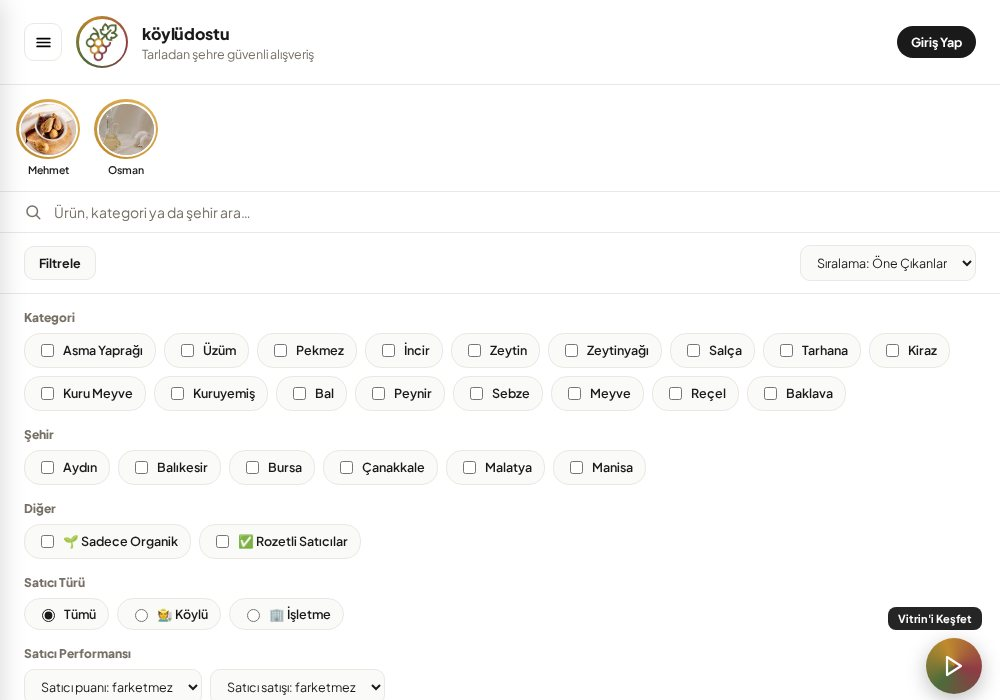
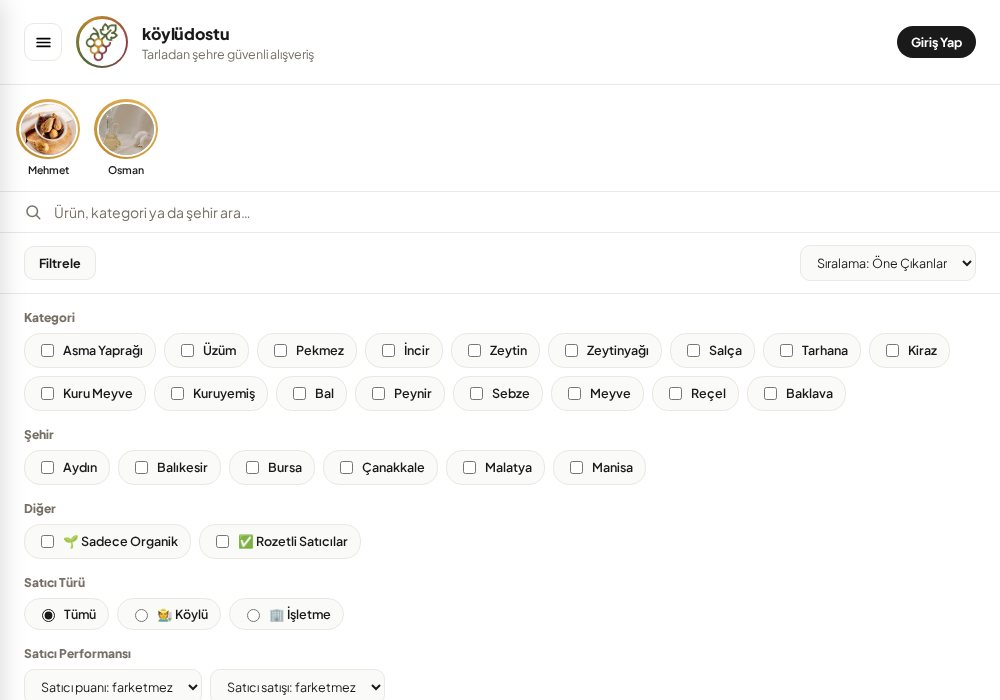
Açılış sayfasını yeni arayüze ve ana uygulama temasına güncelle
- Tema kırmızı/beyazdan ana uygulamanın yeşil marka renklerine (--ring1) döndürüldü
- "Şu an geliştiriyoruz" gibi gereksiz bilgilendirme ifadeleri kaldırıldı
- Yeni özellik kartı: "Doğru Nakliye, Her Seferinde" — saklama koşulu sistemine dayalı nakliye avantajı slogan olarak eklendi (features-grid 2x2 düzene alındı)
- Vitrin ekran görüntüleri (anasayfa, ürün, filtre) güncel arayüzü (keşif şeritleri, yeni kalp ikonu) yansıtacak şekilde yenilendi

Changed region(s): [[0.868, 0.87, 0.992, 1.0]]

diff --git a/koyludostu-tumsite/landing/index.html b/koyludostu-tumsite/landing/index.html
@@ -11,14 +11,15 @@
 <link href="https://fonts.googleapis.com/css2?family=Plus+Jakarta+Sans:wght@400;500;600;700;800;900&display=swap" rel="stylesheet">
 <style>
   :root{
-    --ink:#1A1210; --cream:#FFFBF7; --paper:#FFFFFF;
-    --red:#E30A17; --red-dark:#A10D1C; --red-soft:#FDE6E4;
-    --muted:#7A716B; --line:#F0E3DF;
+    /* Ana uygulamayla (assets/style.css) birebir aynı marka renkleri. */
+    --ink:#1A1A1A; --bg:#FAFAF9; --card:#FFFFFF; --muted:#767066; --line:#ECE8E1;
+    --ring1:#4E6B3A; --ring1-dark:#3A5129; --ring1-soft:#E8EFE3;
+    --ring2:#C08A2E; --ring3:#8E3B46;
   }
   *,*::before,*::after{box-sizing:border-box;}
   html{scroll-behavior:smooth;}
   body{
-    margin:0; background:var(--cream); color:var(--ink); font-family:'Plus Jakarta Sans',sans-serif;
+    margin:0; background:var(--bg); color:var(--ink); font-family:'Plus Jakarta Sans',sans-serif;
     -webkit-font-smoothing:antialiased; overflow-x:hidden;
   }
   a{color:inherit;}
@@ -32,7 +33,7 @@
   .brand{display:flex;align-items:center;gap:11px;}
   .logo-ring{
     width:42px;height:42px;border-radius:50%;flex-shrink:0;padding:2px;
-    background:conic-gradient(from 220deg,var(--red),var(--ink),var(--red-dark),var(--red));
+    background:conic-gradient(from 220deg,var(--ring1),var(--ink),var(--ring1-dark),var(--ring1));
   }
   .logo-ring div{width:100%;height:100%;border-radius:50%;background:#fff;display:flex;align-items:center;justify-content:center;overflow:hidden;}
   .logo-ring img{width:92%;height:92%;object-fit:contain;}
@@ -42,12 +43,12 @@
     padding:10px 18px;border-radius:100px;font-size:13px;font-weight:700;text-decoration:none;white-space:nowrap;
     border:none;cursor:pointer;font-family:inherit;
   }
-  .header-cta:hover{background:var(--red-dark);}
+  .header-cta:hover{background:var(--ring1-dark);}
 
   /* ================= HERO (renkli blok) ================= */
   .hero{
     position:relative;overflow:hidden;
-    background:var(--red);color:#fff;
+    background:var(--ring1);color:#fff;
     margin:24px 16px 0;border-radius:32px;
     padding:clamp(40px,8vw,72px) clamp(20px,6vw,56px) clamp(48px,9vw,80px);
     text-align:center;
@@ -84,8 +85,8 @@
     font-size:15px;font-weight:800;text-decoration:none;cursor:pointer;border:1.5px solid transparent;
     font-family:inherit;
   }
-  .btn-white{background:#fff;color:var(--red);}
-  .btn-white:hover{background:#FFEDEC;}
+  .btn-white{background:#fff;color:var(--ring1);}
+  .btn-white:hover{background:var(--ring1-soft);}
 
   /* ---- Kayan ürün şeridi (canlılık) ---- */
   .marquee{
@@ -102,7 +103,7 @@
 
   /* ================= GERİ SAYIM ================= */
   .cd-section{padding:clamp(48px,9vw,76px) 0 clamp(28px,5vw,40px);text-align:center;}
-  .cd-label{font-size:12.5px;font-weight:800;color:var(--red);margin:0 0 6px;letter-spacing:.05em;text-transform:uppercase;}
+  .cd-label{font-size:12.5px;font-weight:800;color:var(--ring1);margin:0 0 6px;letter-spacing:.05em;text-transform:uppercase;}
   .cd-title{font-size:clamp(20px,3.4vw,28px);font-weight:800;margin:0 0 30px;}
   .countdown{
     display:grid;grid-template-columns:repeat(4,1fr);gap:clamp(8px,2vw,16px);
@@ -113,7 +114,7 @@
     padding:clamp(16px,3.2vw,26px) 6px;text-align:center;position:relative;overflow:hidden;
     border:1.5px solid var(--ink);
   }
-  .cd-box:nth-child(odd){background:var(--red);border-color:var(--red);}
+  .cd-box:nth-child(odd){background:var(--ring1);border-color:var(--ring1);}
   .cd-box:nth-child(even){background:#fff;color:var(--ink);border-color:var(--line);}
   .cd-num{
     font-size:clamp(28px,6.8vw,46px);font-weight:900;line-height:1;font-variant-numeric:tabular-nums;
@@ -121,18 +122,18 @@
   .cd-unit{font-size:clamp(9.5px,1.8vw,11.5px);font-weight:700;margin-top:7px;text-transform:uppercase;letter-spacing:.05em;opacity:.7;}
   .target-date{font-size:13.5px;color:var(--muted);}
   .target-date b{color:var(--ink);font-weight:800;}
-  .launched-msg{display:none;font-size:16px;font-weight:800;color:var(--red);margin-bottom:20px;}
+  .launched-msg{display:none;font-size:16px;font-weight:800;color:var(--ring1);margin-bottom:20px;}
 
   /* ================= ÖZELLİKLER ================= */
   .features{padding:clamp(20px,5vw,36px) 0 clamp(48px,9vw,72px);}
-  .features-grid{display:grid;grid-template-columns:repeat(3,1fr);gap:16px;}
+  .features-grid{display:grid;grid-template-columns:repeat(2,1fr);gap:16px;}
   @media (max-width:720px){.features-grid{grid-template-columns:1fr;}}
   .feature{
     border-radius:22px;padding:26px 24px;position:relative;overflow:hidden;
     background:#fff;border:1.5px solid var(--line);
   }
   .feature .ico{
-    width:44px;height:44px;border-radius:13px;background:var(--red-soft);color:var(--red);
+    width:44px;height:44px;border-radius:13px;background:var(--ring1-soft);color:var(--ring1);
     display:flex;align-items:center;justify-content:center;margin-bottom:18px;
   }
   .feature .ico svg{width:23px;height:23px;}
@@ -170,7 +171,7 @@
     padding:clamp(36px,7vw,60px) clamp(20px,6vw,52px);
   }
   .prereg-head{text-align:center;max-width:520px;margin:0 auto 32px;}
-  .prereg-head .cd-label{color:var(--red);}
+  .prereg-head .cd-label{color:var(--ring1);}
   .prereg-head h2{font-size:clamp(22px,4vw,32px);font-weight:800;margin:8px 0 12px;text-wrap:balance;}
   .prereg-head p{font-size:14.5px;color:rgba(255,255,255,.72);line-height:1.6;margin:0;}
   .prereg-form{
@@ -181,12 +182,12 @@
     background:rgba(255,255,255,.08);color:#fff;font-family:inherit;font-size:14.5px;
   }
   .prereg-form input::placeholder{color:rgba(255,255,255,.48);}
-  .prereg-form input:focus{outline:none;border-color:var(--red);background:rgba(255,255,255,.13);}
+  .prereg-form input:focus{outline:none;border-color:var(--ring1);background:rgba(255,255,255,.13);}
   .prereg-form button{
-    padding:15px 28px;border-radius:100px;background:var(--red);color:#fff;
+    padding:15px 28px;border-radius:100px;background:var(--ring1);color:#fff;
     border:none;font-family:inherit;font-size:14.5px;font-weight:800;cursor:pointer;white-space:nowrap;
   }
-  .prereg-form button:hover{background:#C60914;}
+  .prereg-form button:hover{background:var(--ring1-dark);}
   .prereg-form button:disabled{opacity:.6;cursor:default;}
   .prereg-msg{text-align:center;font-size:13px;margin-top:14px;min-height:18px;color:rgba(255,255,255,.8);}
   .prereg-msg.err{color:#FF9B92;}
@@ -262,14 +263,19 @@
           <h3>Güvenli Alışveriş</h3>
           <p>Sipariş takibi, satıcı-alıcı mesajlaşması ve şikayet sistemiyle uçtan uca izlenebilir, güvenli bir alışveriş deneyimi.</p>
         </div>
+        <div class="feature">
+          <div class="ico"><svg viewBox="0 0 24 24" fill="none" stroke="currentColor" stroke-width="2" stroke-linecap="round" stroke-linejoin="round"><rect x="1" y="7" width="15" height="10" rx="1"/><path d="M16 10h3.5a1 1 0 0 1 .9.55L22 14v3h-2"/><circle cx="6" cy="19" r="2"/><circle cx="17.5" cy="19" r="2"/><path d="M8 19h7.5"/></svg></div>
+          <h3>Doğru Nakliye, Her Seferinde</h3>
+          <p>Her ürünün saklama koşulu sistemde tanımlı: kuru ürünler kargoyla yola çıkar, taze ve soğuk zincir gerektirenler kargoya hiç verilmez — elden teslim ya da otobüsle, bozulmadan sana ulaşır.</p>
+        </div>
       </div>
     </section>
 
     <section class="showcase" id="uygulama">
       <div class="showcase-head">
-        <div class="cd-label">Şu An Geliştiriyoruz</div>
-        <h2>Uygulamadan bir bakış</h2>
-        <p>Kayıt olmadan önce ne bulacağını bil istedik — bunlar üzerinde çalıştığımız, şu anda canlı çalışan uygulamadan gerçek ekran görüntüleri.</p>
+        <div class="cd-label">Uygulamadan Bir Bakış</div>
+        <h2>Kayıt olmadan önce ne bulacağını gör</h2>
+        <p>Zeytinyağından bala, taze sebzeden peynire — üreticilerin ürünleri, gerçek yorumlar ve detaylı filtrelerle seni bekliyor.</p>
       </div>
       <div class="showcase-grid">
         <div class="browser-card">
